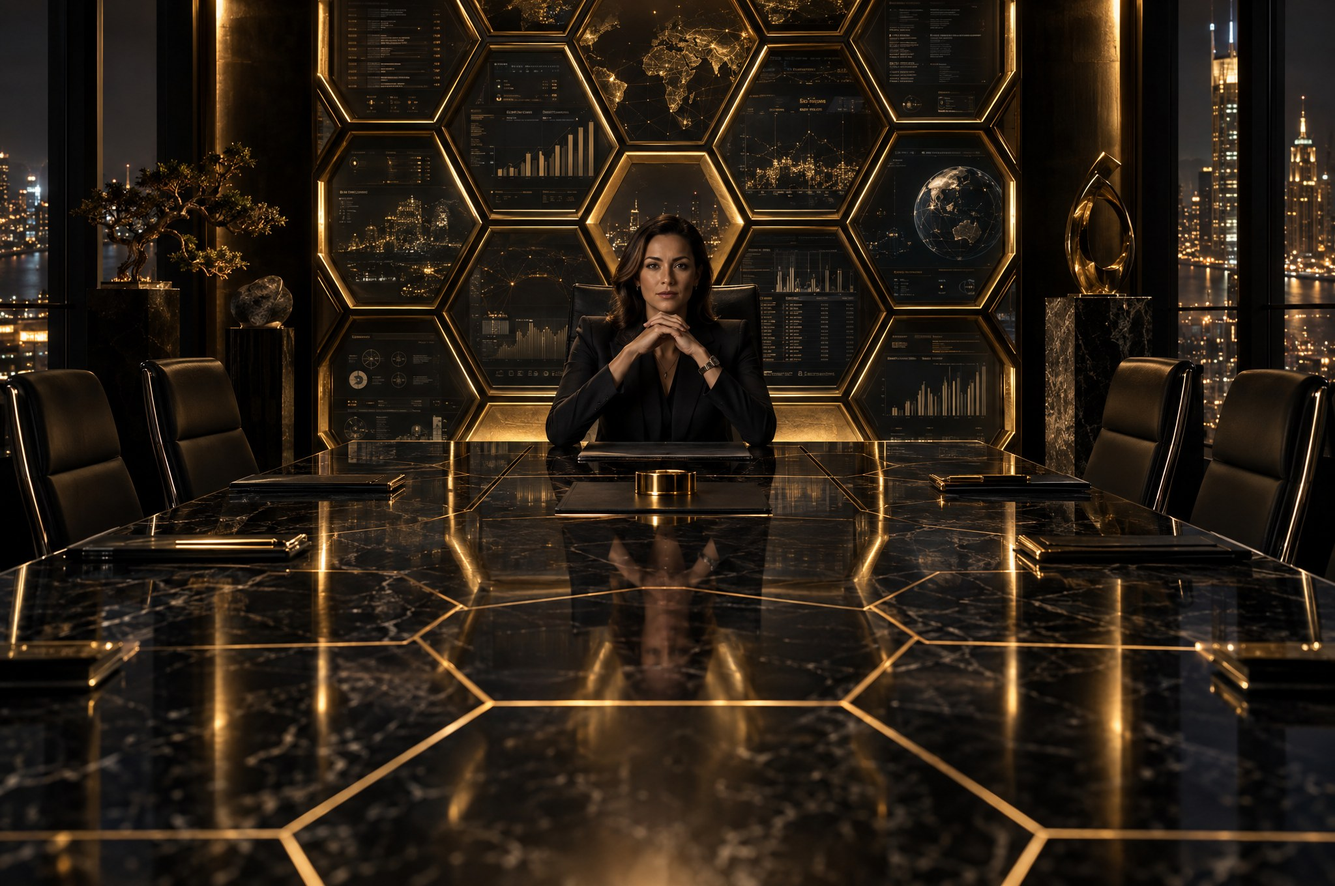
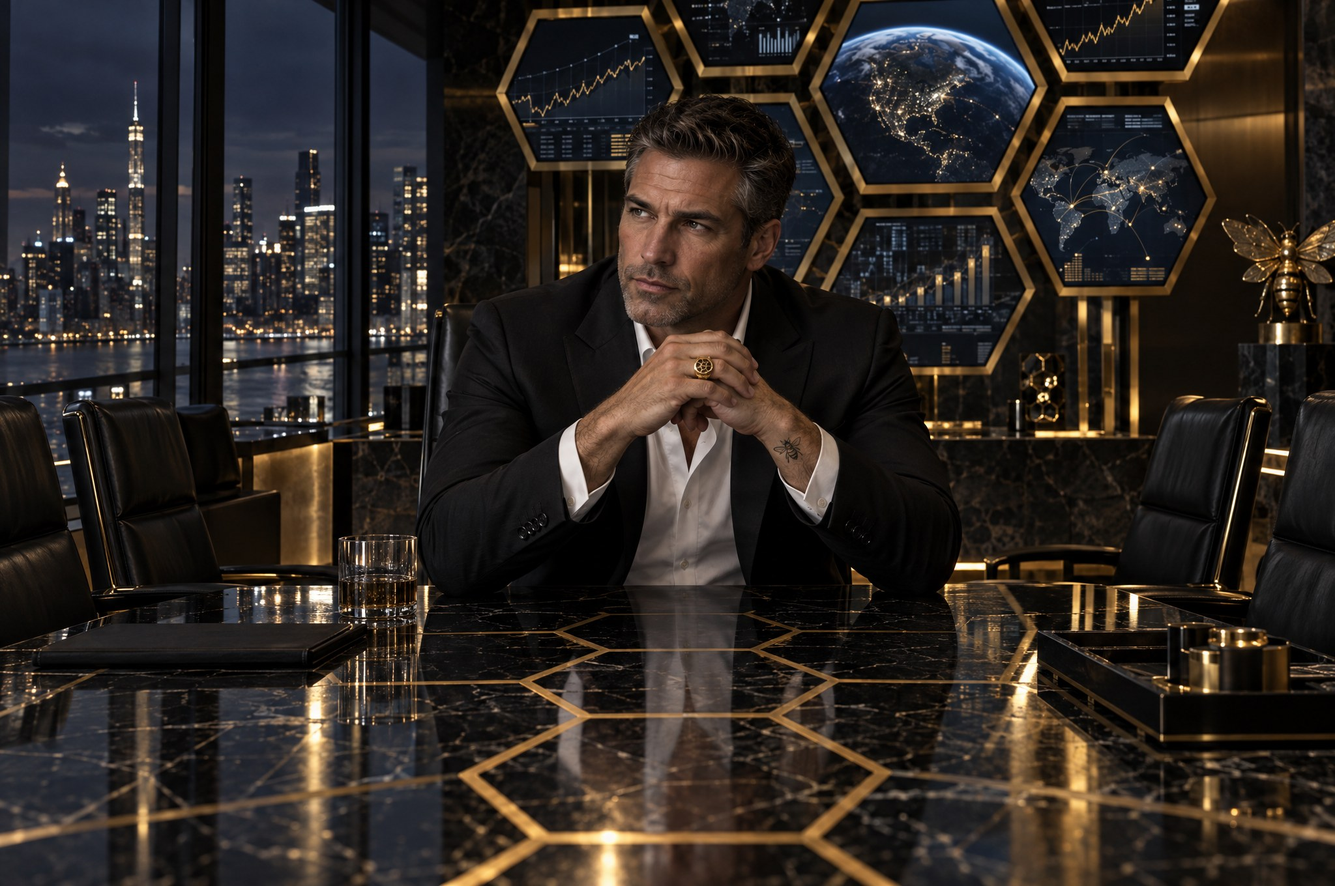
Swap consult boardroom art to a male operator with a hive kink
The Fortune-5 still had a woman at the head of the table. Replace her
with a man in the room, gold honeycomb signet, bee tattoo, bee on the
credenza — operator, not a bank.

diff --git a/corp/src/pages/Consult.tsx b/corp/src/pages/Consult.tsx
@@ -30,7 +30,7 @@ export default function Consult() {
         <div className="hero-media">
           <img
             src="/brand/consult-boardroom.jpg"
-            alt="Gold honeycomb boardroom — AgentHive consult, Fortune-level operations desk"
+            alt="Male founder-operator at the gold honeycomb boardroom — signet ring and bee tattoo"
           />
         </div>
         <div className="hero-copy">
@@ -134,7 +134,7 @@ export default function Consult() {
           <div className="frame consult-frame">
             <img
               src="/brand/consult-boardroom.jpg"
-              alt="Executive honeycomb war room used for AgentHive consult sessions"
+              alt="Male operator in the gold honeycomb war room, honeycomb signet and bee tattoo"
             />
           </div>
         </div>
